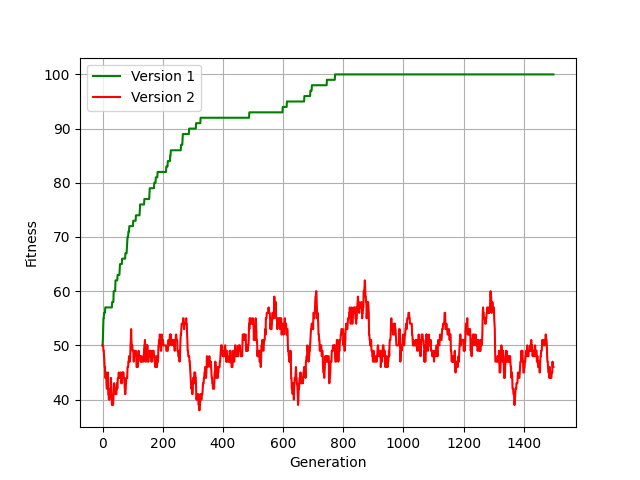
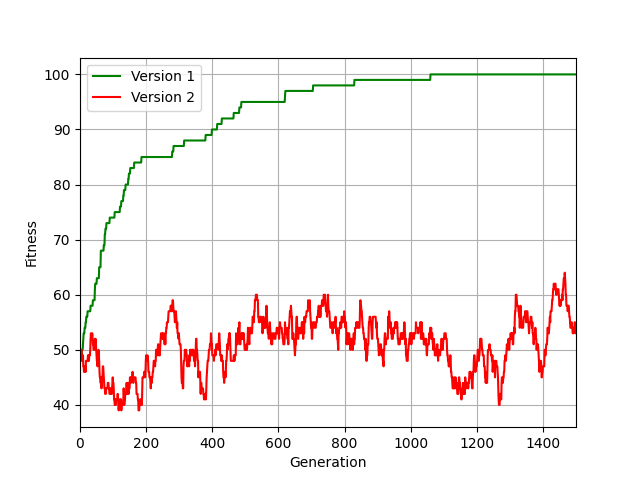
first attempt at ex3, might be incorrect

diff --git a/Assignment-5/evolutionary-computing.py b/Assignment-5/evolutionary-computing.py
@@ -1,0 +1,101 @@
+import os
+import random
+import matplotlib.pyplot as plt
+
+# Parameters
+K = 2
+TARGET = 'ThisStuffIsHard'
+TARGET_LENGTH = len(TARGET)
+ALPHABET = 'abcdefghijklmnopqrstuvwxyzABCDEFGHIJKLMNOPQRSTUVWXYZ'
+P_C = 1
+MU = 1.0 / TARGET_LENGTH
+POP_SIZE = 200
+MAX_GENS = 100
+
+# Fitness function
+def string_similarity(a, b):
+    # assumes target string and searching strings are all of the same length
+    assert(len(a) == len(b))
+    # higher fitness = better individual, so count the number of correct letters in string
+    dist = 0
+    for i in range(min(len(a), len(b))):
+        if a[i] == b[i]:
+            dist += 1
+    return dist
+
+fitness = string_similarity
+
+# Evolutionary algorithms
+def initialise_population():
+    population = []
+    for _ in range(POP_SIZE):
+        population.append(''.join([random.choice(ALPHABET) for _ in range(TARGET_LENGTH)]))
+    return population
+
+def calc_population_fitness(population):
+    pop_fitness = []
+    for individual in population:
+        pop_fitness.append(fitness(individual, TARGET))
+    return pop_fitness
+
+def find_fittest(population):
+    max_fitness = 0
+    index = 0
+    for i in range(len(population)):
+        this_fitness = fitness(population[i], TARGET)
+        if this_fitness > max_fitness:
+            max_fitness = this_fitness
+            index = i
+    return max_fitness, index
+
+def crossover(a, b):
+    assert(len(a) == len(b))
+    cross_point = random.randrange(len(a))
+    child_a = a[:cross_point] + b[cross_point:]
+    child_b = b[:cross_point] + a[cross_point:]
+    return [child_a, child_b]
+
+def mutate(a):
+    mutated = ''
+    for i in range(len(a)):
+        if random.random() < MU:
+            mutated += random.choice(ALPHABET)
+        else:
+            mutated += a[i]
+    return a
+
+def string_search_ga(verbose=True):
+    # Step 1: Population of candidate solutions
+    population = initialise_population()
+    # Repeat steps 2-4
+    for i in range(MAX_GENS):
+        max_fitness, fittest_index = find_fittest(population)
+        if verbose:
+            print(f'Closest string in generation {i}:\t{population[fittest_index]} (fitness: {max_fitness})')
+        if population[fittest_index] == TARGET:
+            return i # only need to return time in generations to find target string
+        new_population = []
+        # Step 2: Determine fitness for every solution
+        pop_fitness = calc_population_fitness(population)
+        for _ in range(int(POP_SIZE / 2)):
+            # Step 3: Select parents for new generation
+            parents = random.choices(population, pop_fitness, k=2)
+            # Step 4a: Introduce variation via crossover
+            new_population += crossover(parents[0], parents[1])
+        assert(len(new_population) == POP_SIZE)
+        # Step 4b: Introduce variation via mutation
+        population = [mutate(individual) for individual in new_population]
+    return -1 # negative return means max generations were reached without target string being found
+
+
+def run_experiment():
+    string_search_ga()
+
+def main():
+    if not os.path.exists('results/ex3'):
+        os.makedirs('results/ex3')
+    run_experiment()
+    
+
+if __name__ == '__main__':
+    main()

diff --git a/Assignment-5/selection-in-ga.py b/Assignment-5/selection-in-ga.py
@@ -65,6 +65,7 @@ def main():
     ga_v2(bitstring)
     plt.xlabel('Generation')
     plt.ylabel('Fitness')
+    plt.xlim(0,1500)
     plt.grid()
     plt.legend()
     plt.savefig('results/ex2/graph.png')
